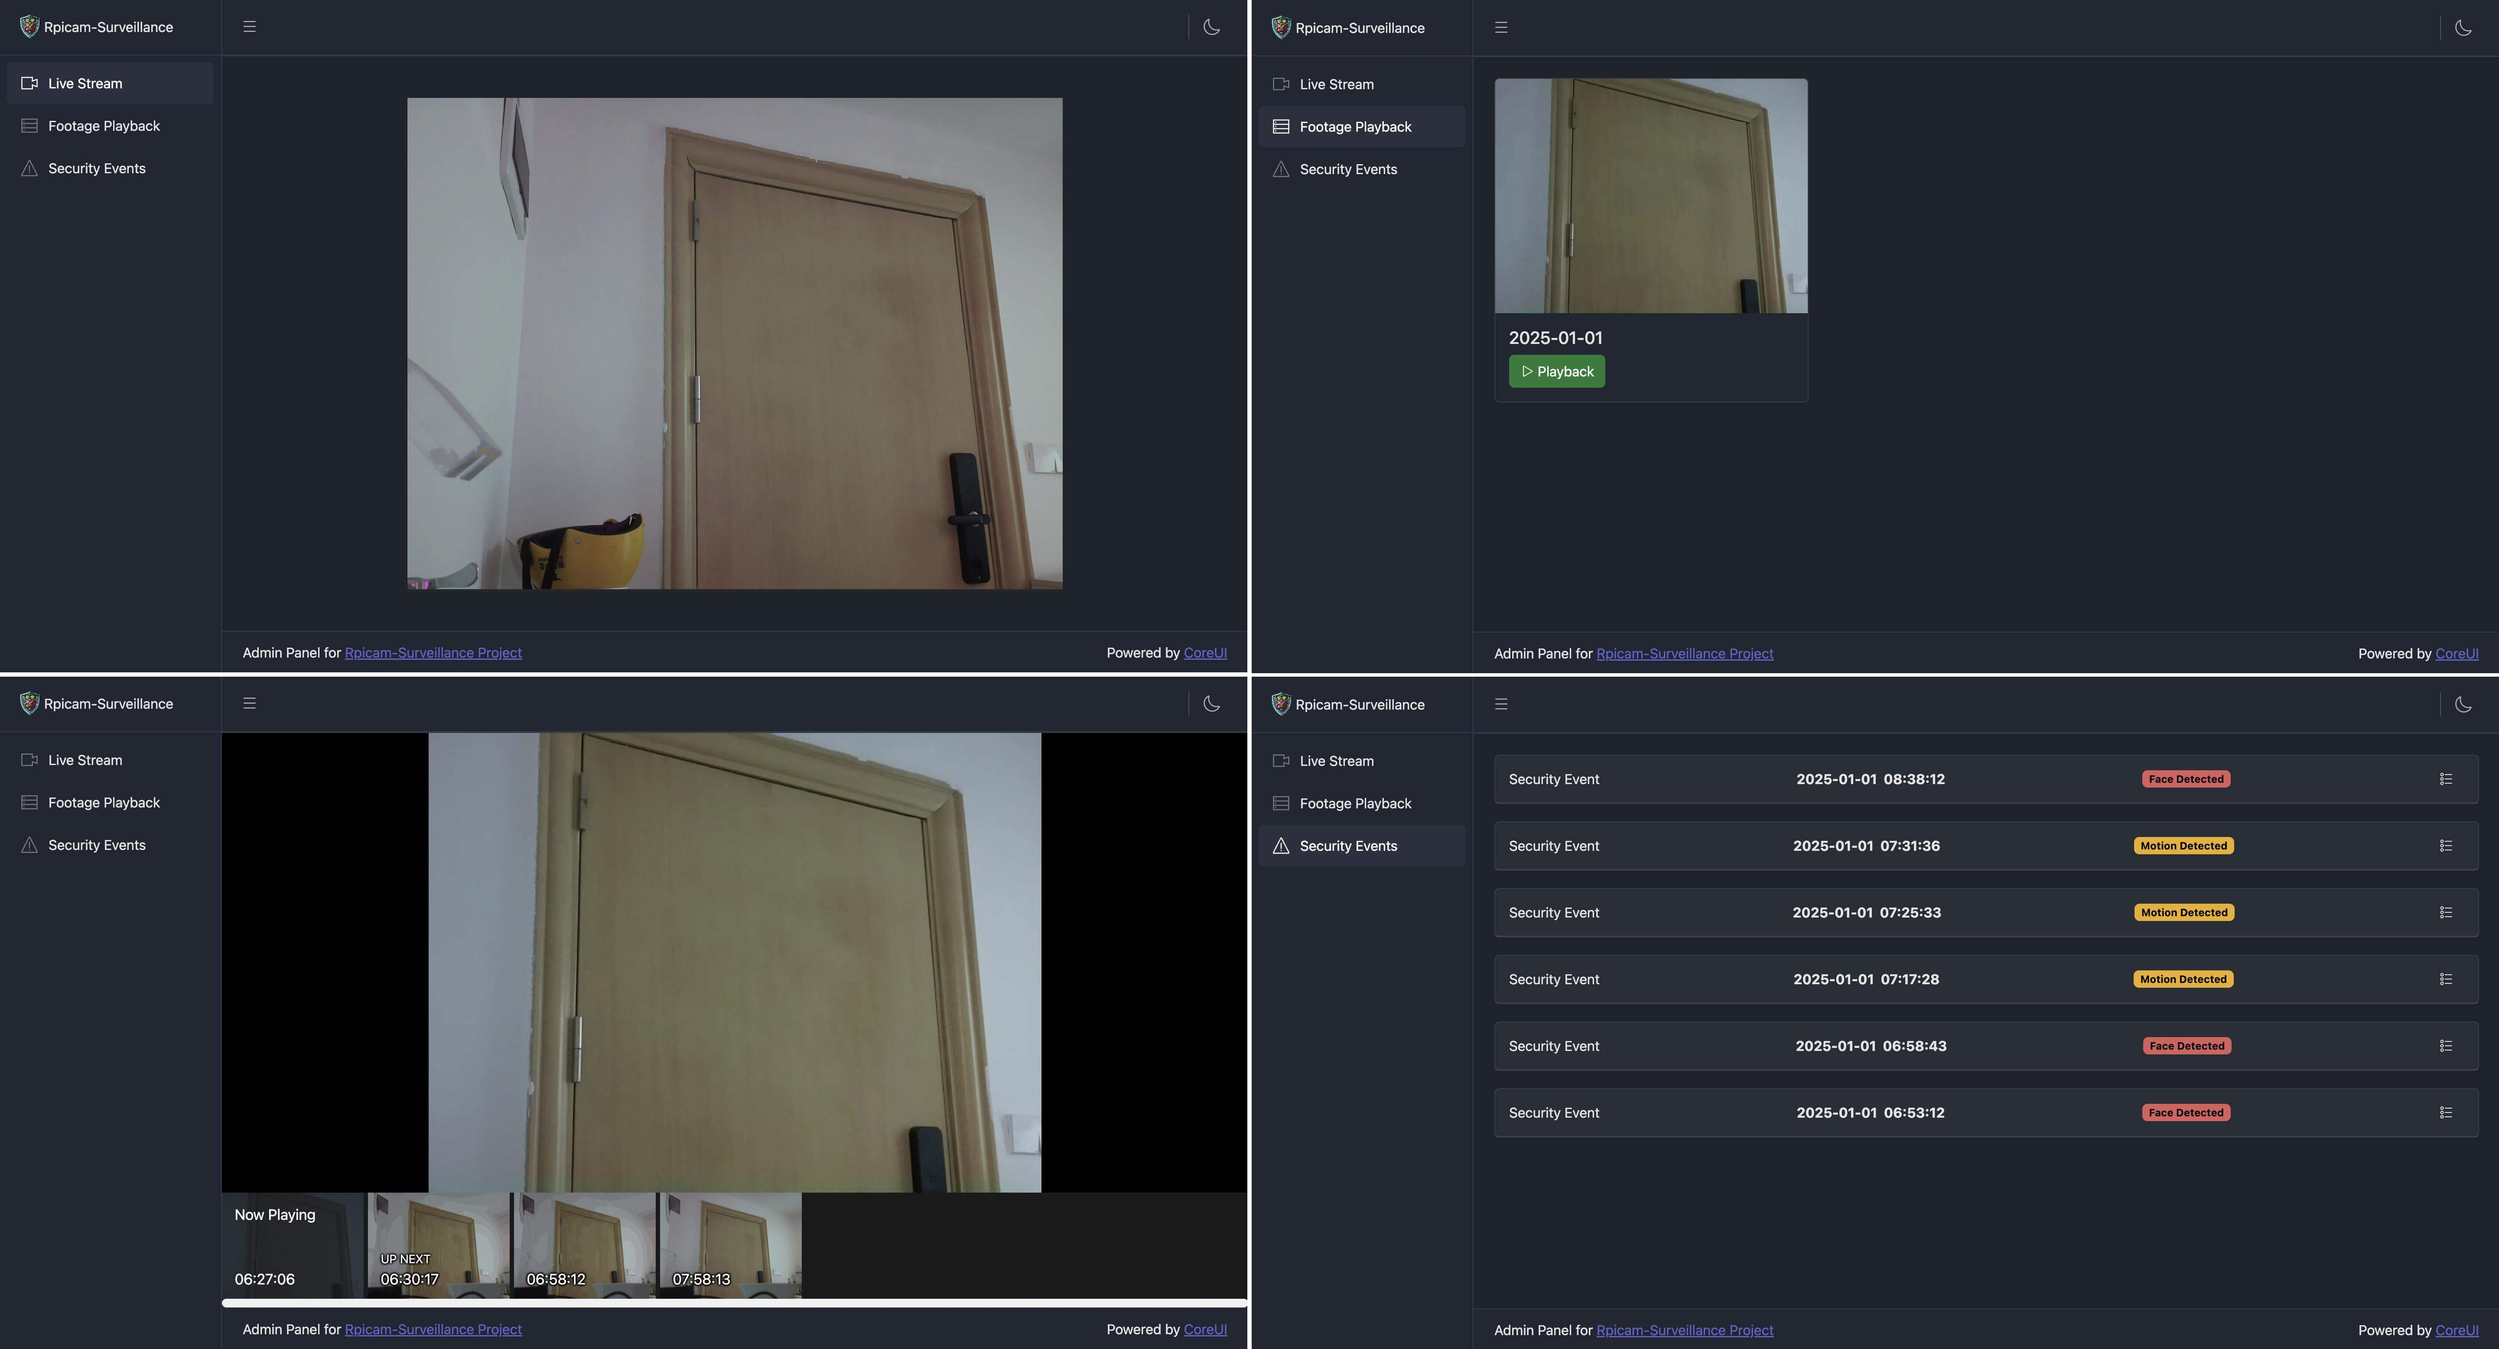
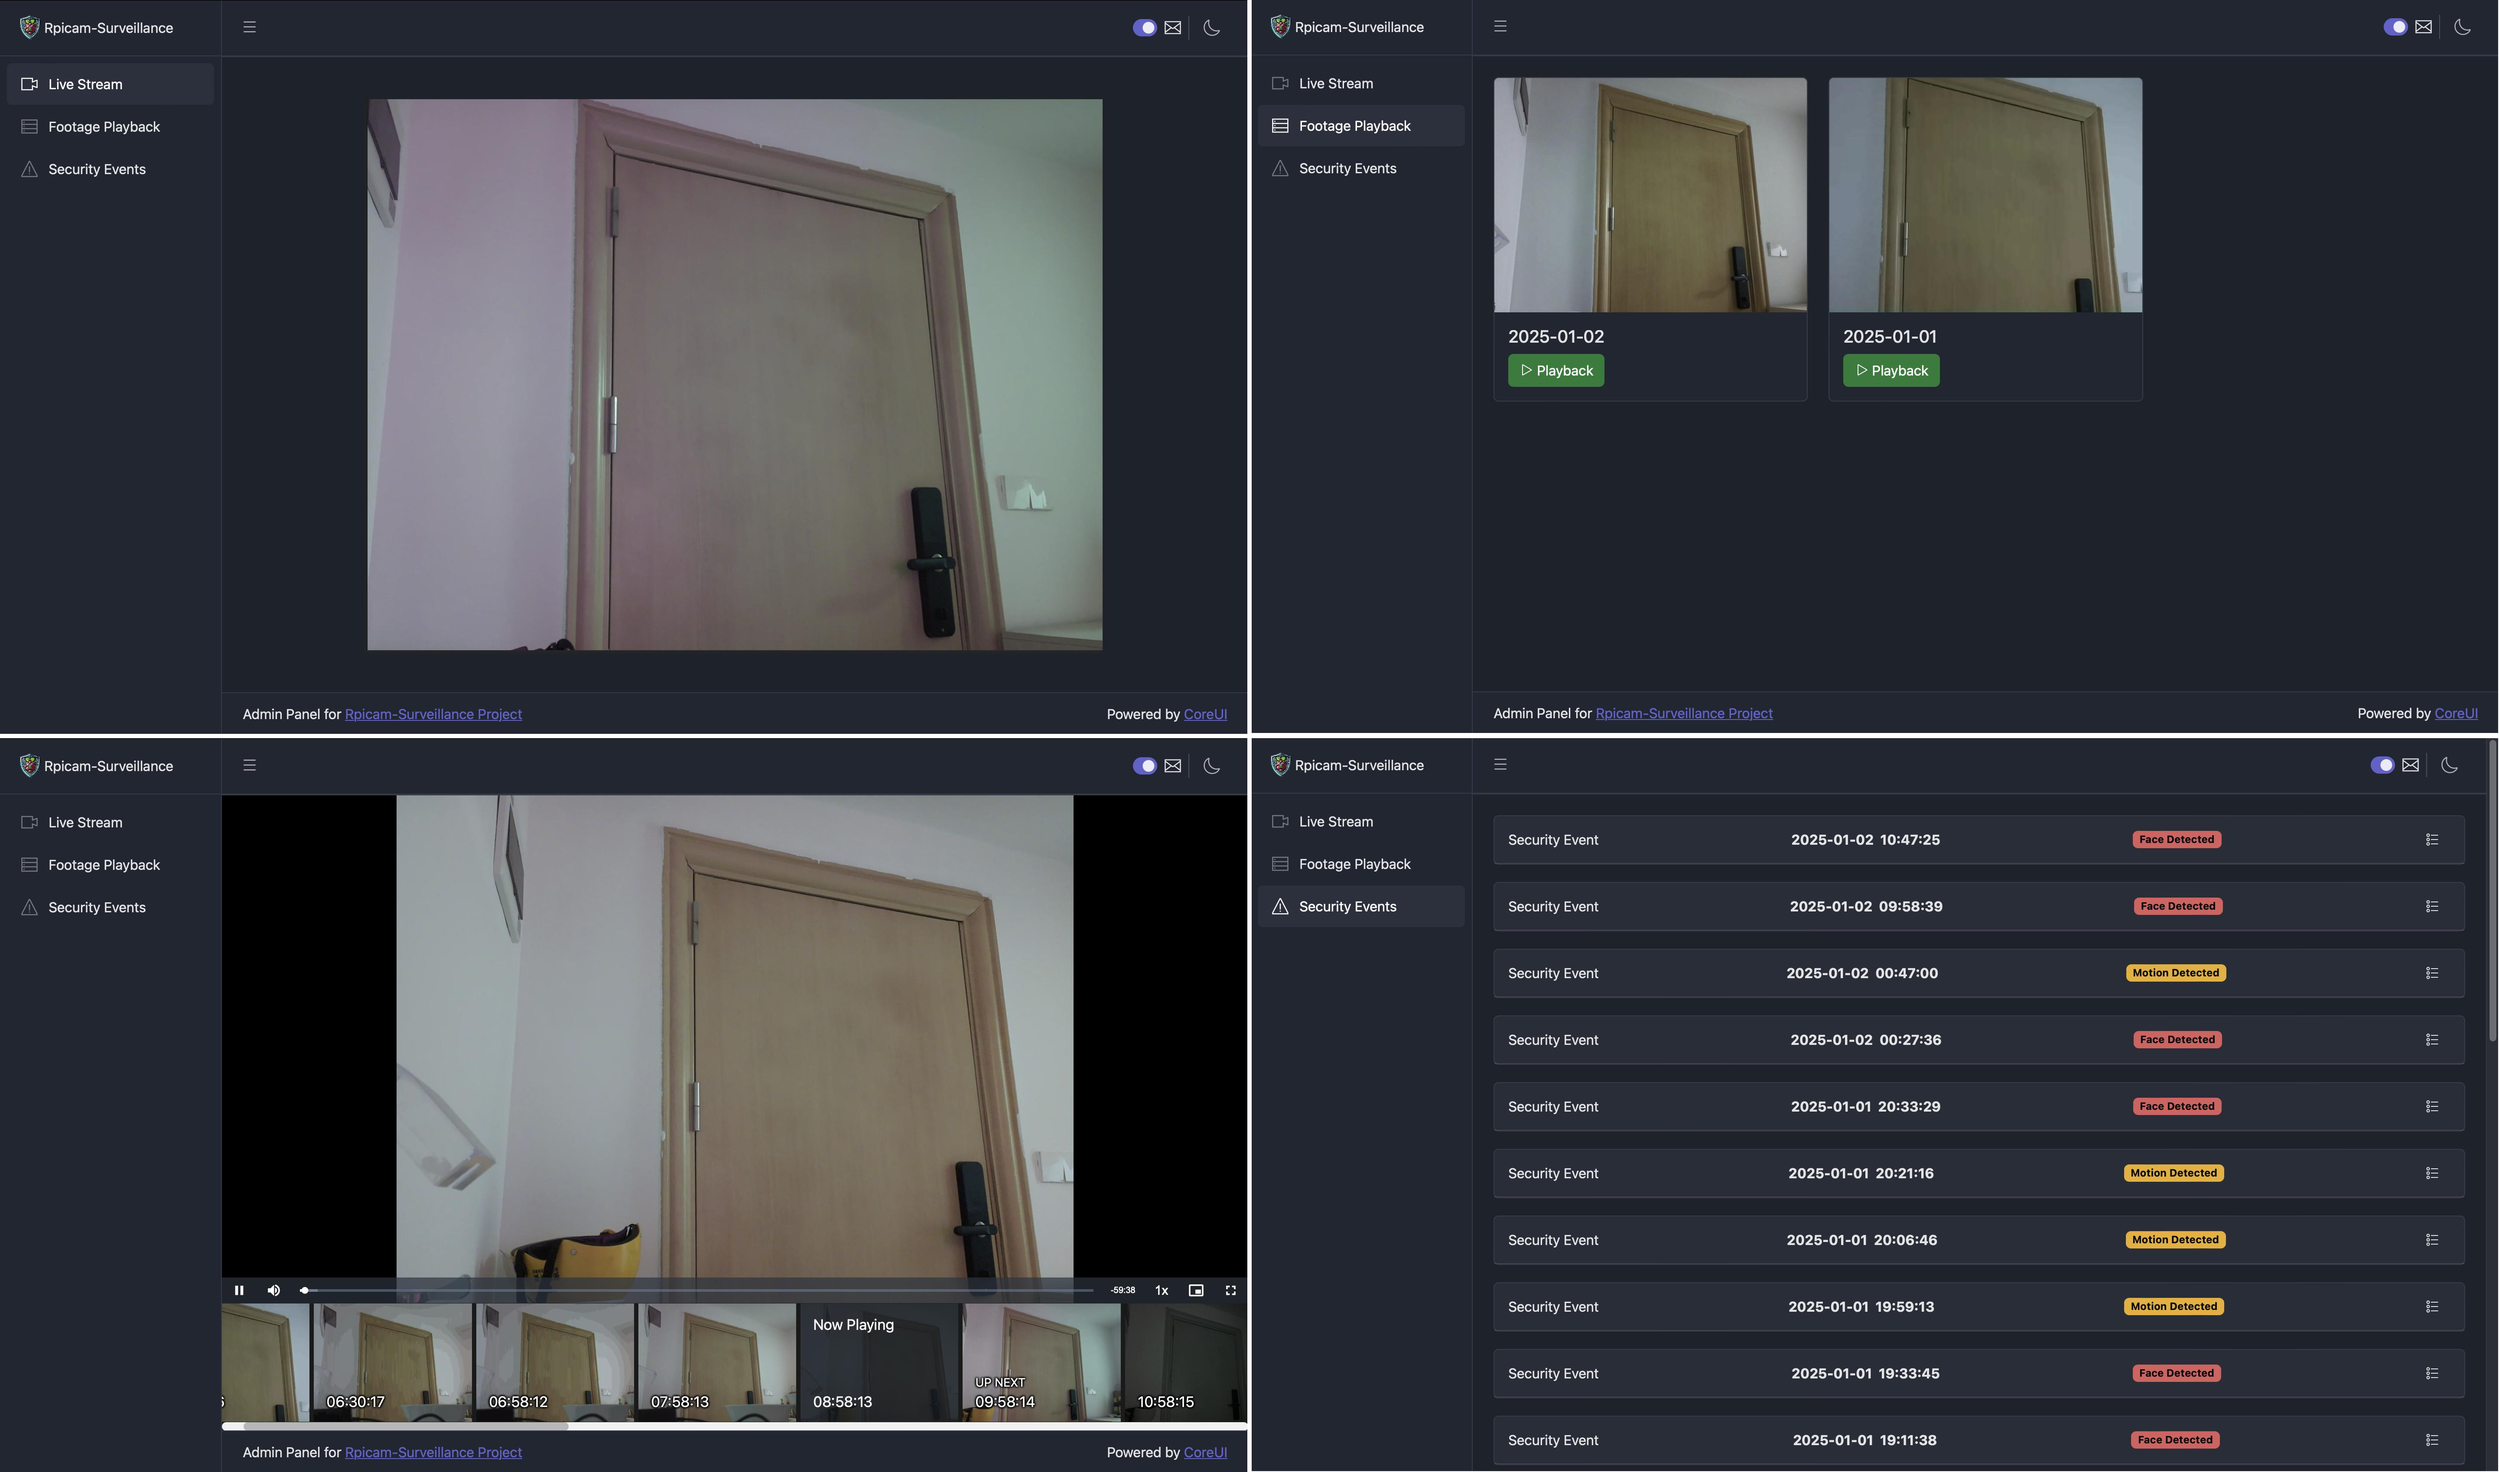
update md

diff --git a/README.md b/README.md
@@ -109,7 +109,7 @@ sudo ldconfig
 You can start surveillance via a single command:
 
 ```bash
-rpicam-surv -t 0 -r --inline --profile baseline --web-host 0.0.0.0 --web-port 8000 --post-process-file /usr/local/share/rpi-camera-assets/surveillance.json --alert-config-file /usr/local/share/rpi-camera-assets/alert_config.json --autofocus-mode manual
+rpicam-surv -t 0 -r --inline --enable-email-alerts --profile baseline --web-host 0.0.0.0 --web-port 8000 --post-process-file /usr/local/share/rpi-camera-assets/surveillance.json --alert-config-file /usr/local/share/rpi-camera-assets/alert_config.json --autofocus-mode manual
 ```
 
 **OR**
